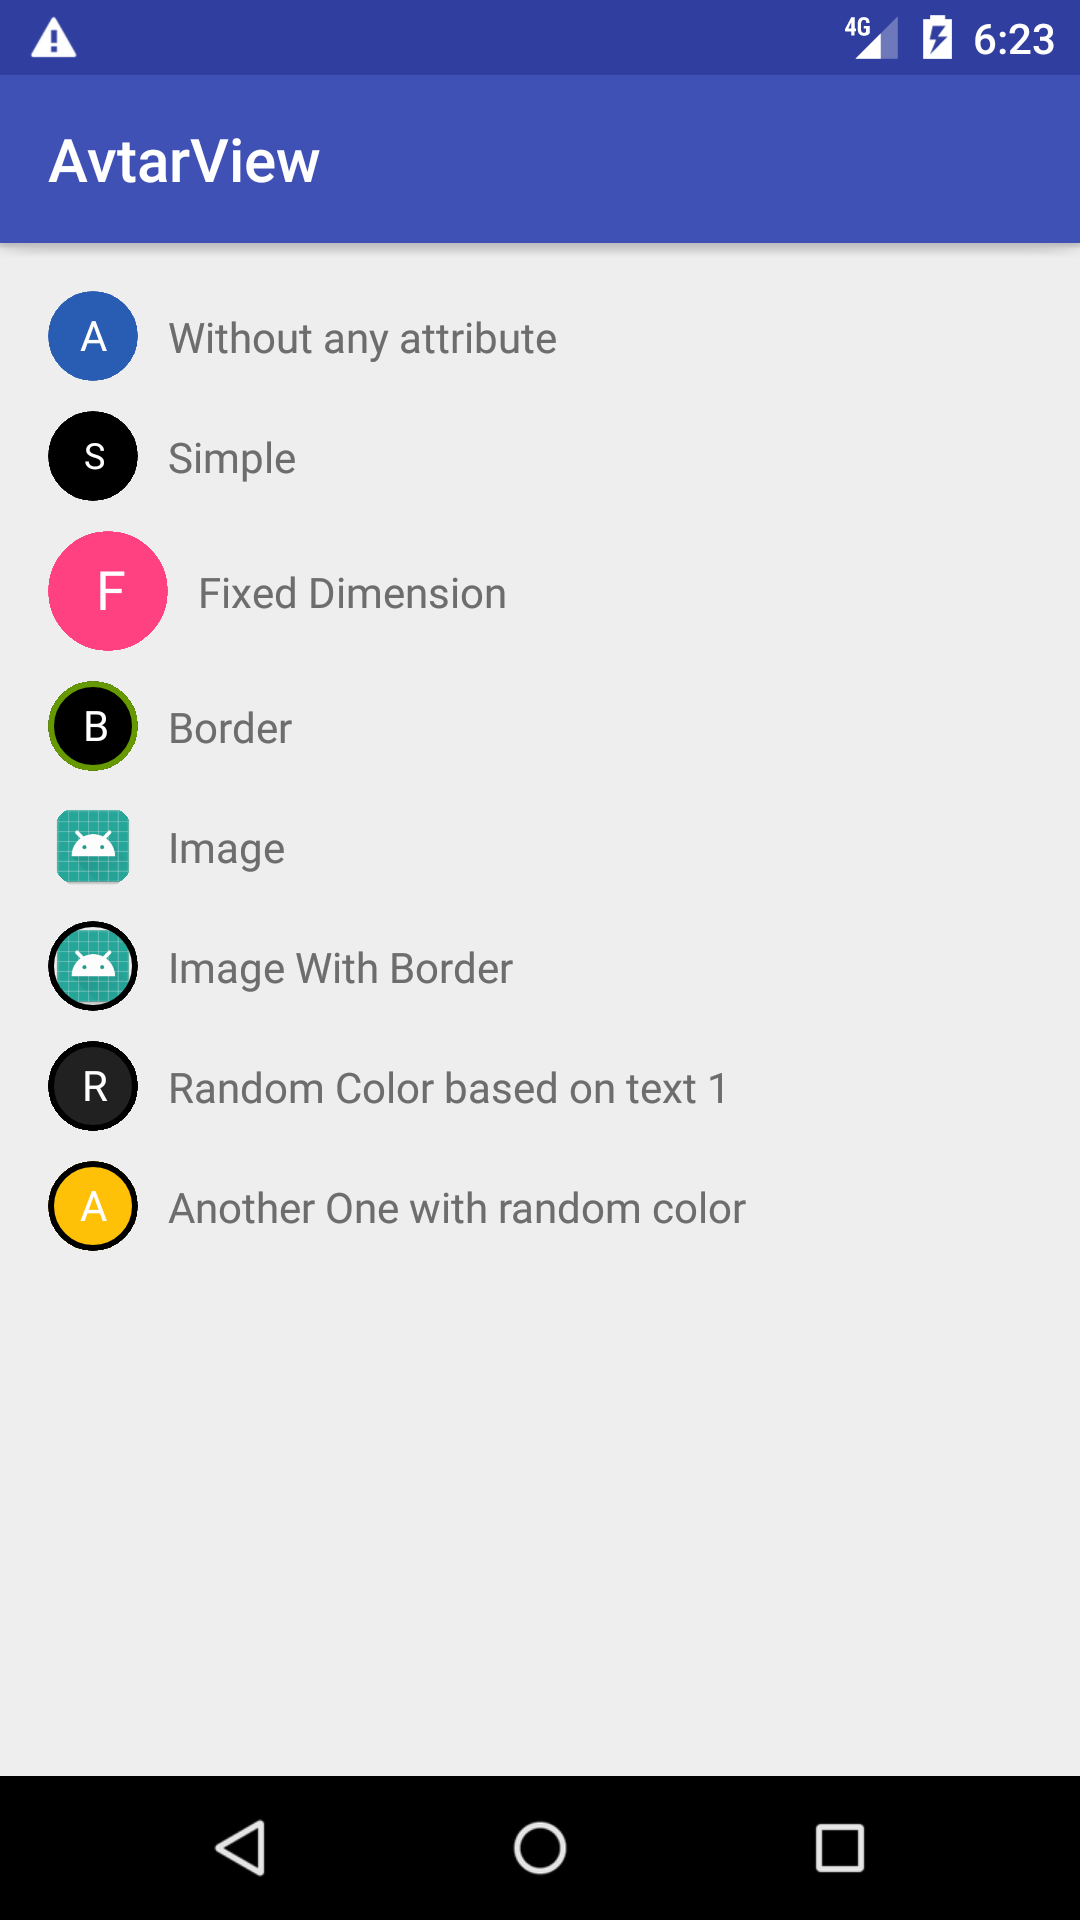
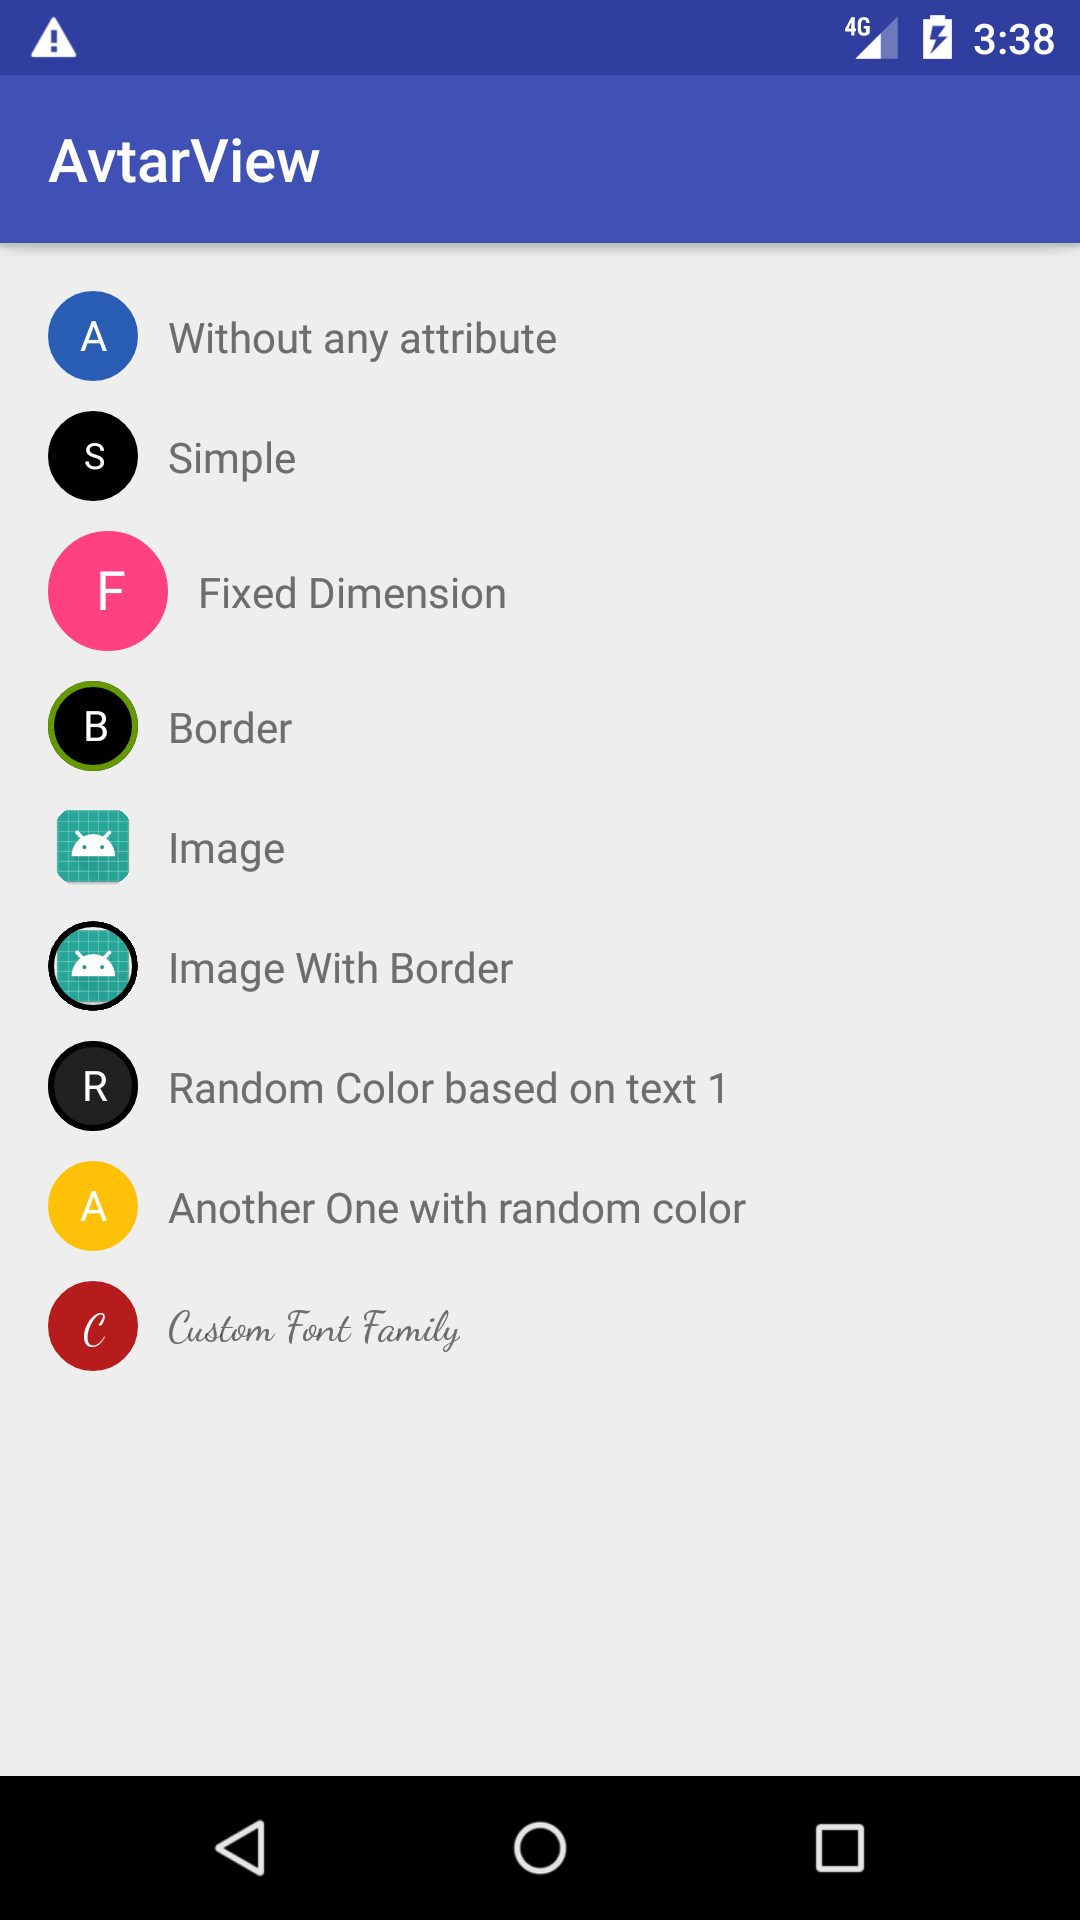
Updated screenshot and readme

diff --git a/README.md b/README.md
@@ -38,6 +38,7 @@ dependencies {
 		app:textColor="@android:color/white"
 		app:strokeWidth="2dp"
 		app:strokeColor="@android:color/white"
+		app:fontFamily="sans-serif"
 		/>
 ```
 
@@ -47,6 +48,7 @@ dependencies {
     avtarView.setTextColor(Color.WHITE);
     avtarView.setStrokeWidth(2);
     avtarView.setStrokeColor(Color.WHITE);
+    avatarView.setFont(typeface);
 ```
 
 ### Image
